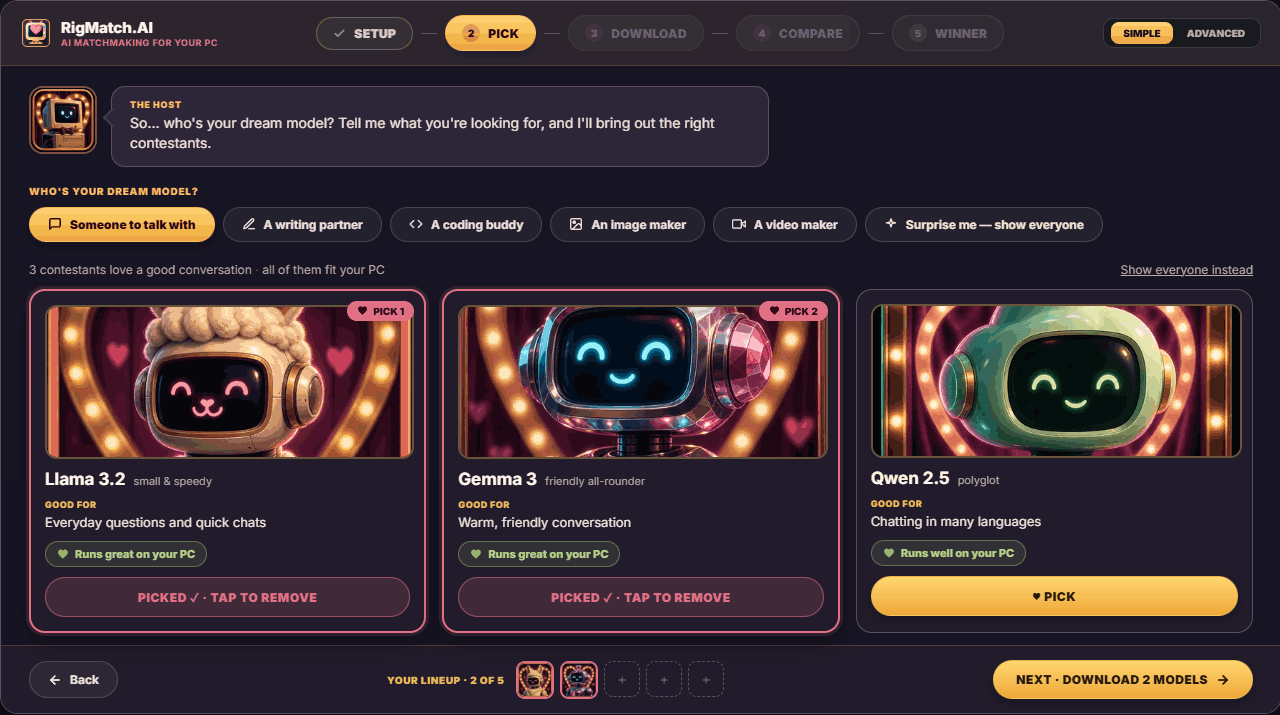
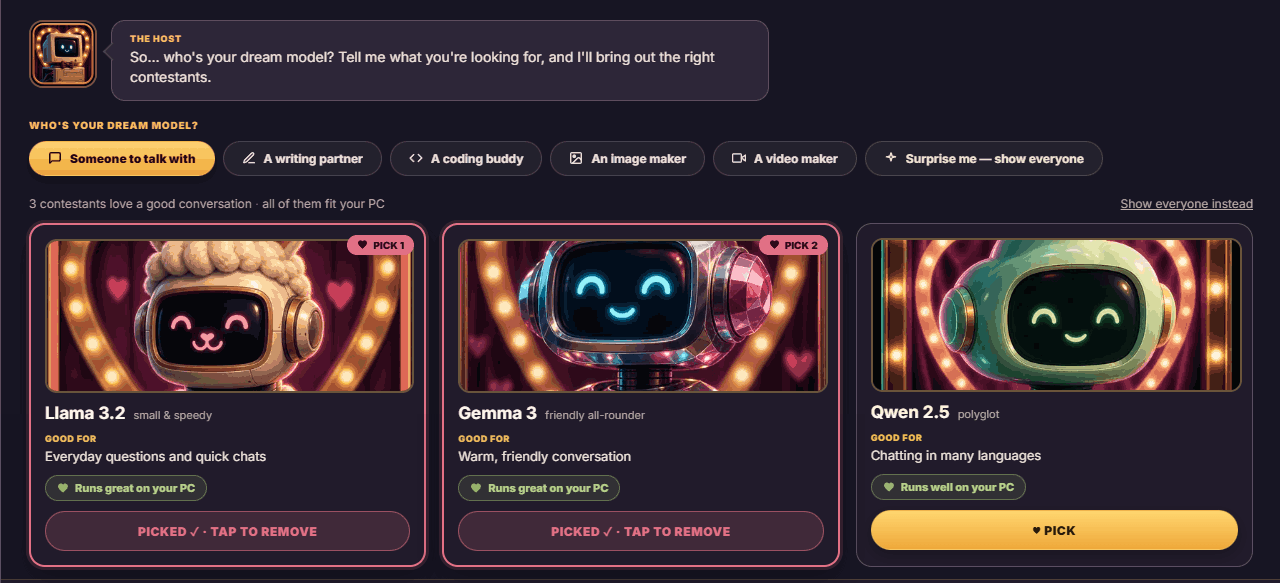
Walkthrough: crop the repeated chrome out of steps 2-5
Every README screenshot carried the identical header rail and footer, so the
five panels read as "same format, find the new part yourself" — the reviewer's
words: "I have to do the work of skipping what I already read". Step 1 keeps the
full window as the establishing shot; steps 2-5 now show only that step's stage
(host bubble kept — it changes per step and the reviewer singled it out as
good). Copy updated where today's fixes changed behavior: one card per model on
Pick, stop-anytime on Download. Dropped a stale "New in this release".

diff --git a/README.md b/README.md
@@ -33,23 +33,27 @@ Everything runs on your machine. No account, no cloud, no telemetry.
 
 ## Simple Mode — local AI for everyone
 
-New in this release: a five-step guided wizard for people who have never heard of VRAM and just want "the best AI for my PC." A game-show host walks you through the whole thing.
+A five-step guided wizard for people who have never heard of VRAM and just want "the best AI for my PC." A game-show host walks you through the whole thing.
 
 ### 1 · Setup — check your computer
 
 One click detects Ollama and reads your hardware — no jargon, just "you're all set."
 
-<p align="center"><img src="docs/images/01-setup.png" alt="Setup step — check your computer" width="100%"></p>
+<p align="center"><img src="docs/images/01-setup.png" alt="Setup step — the full RigMatch window with the five-step rail" width="100%"></p>
+
+<!-- Screenshots 2–5 are cropped to each step's stage: the header rail and
+     footer repeat identically on every step, and a walkthrough that re-shows
+     them makes the reader hunt for what changed (first outside review). -->
 
 ### 2 · Pick — meet the contestants
 
-Tell the host who your dream model is — someone to talk with, a coding buddy, an image maker — and pick up to five contestants that fit your PC. Fit first, specs never.
+Tell the host who your dream model is — someone to talk with, a coding buddy, an image maker — and pick up to five contestants that fit your PC. One card per model; RigMatch picks the right size for your hardware.
 
 <p align="center"><img src="docs/images/02-pick.png" alt="Pick step — contestant cards with dream-model filters" width="100%"></p>
 
 ### 3 · Download — the contestants arrive
 
-Reassuring progress while your lineup installs. Downloads resume if you close the app.
+Live progress while your lineup installs. Stop anytime; downloads resume if you close the app.
 
 <p align="center"><img src="docs/images/03-download.png" alt="Download step — lineup install progress" width="100%"></p>
 
